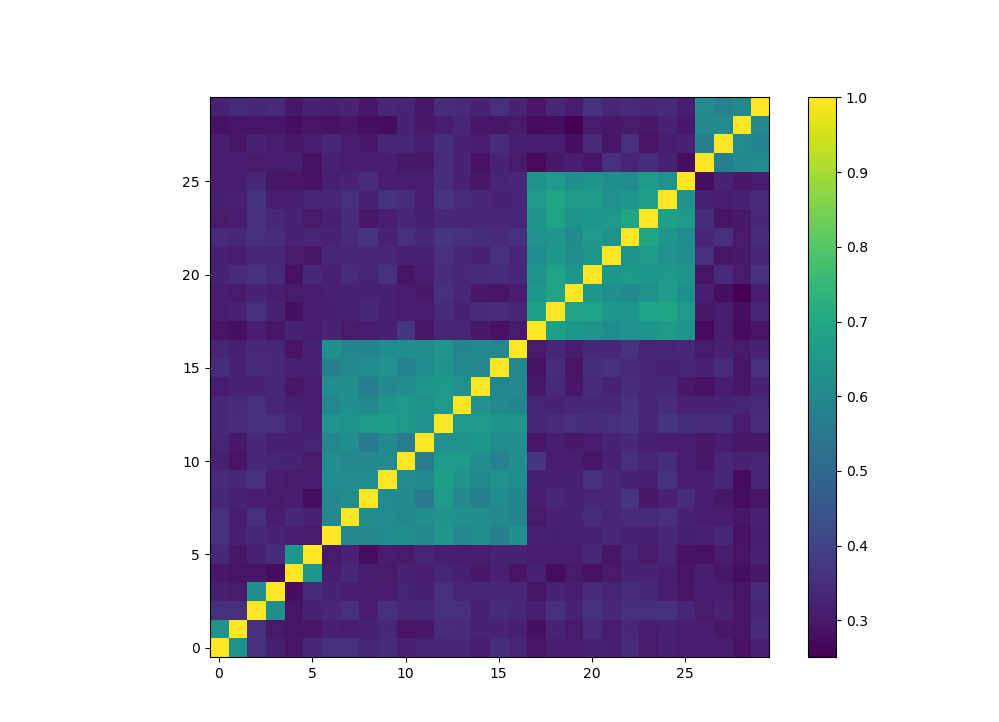
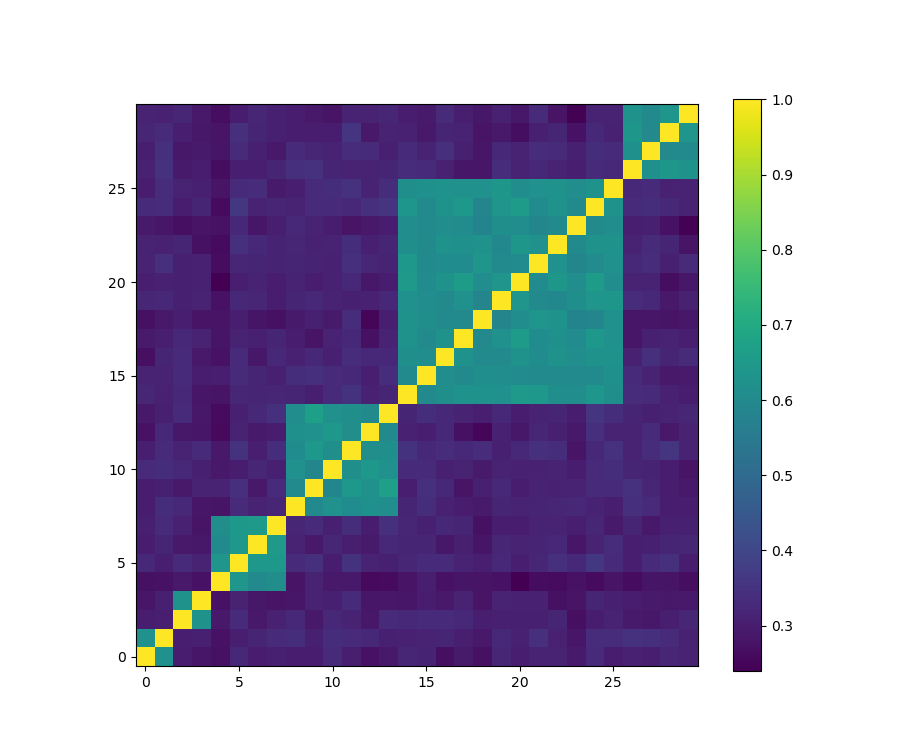
new cluster-imgs

diff --git a/optimal_clustering.py b/optimal_clustering.py
@@ -197,10 +197,11 @@ if __name__ == '__main__':
     matplotlib.pyplot.show()
 
     #draw prediction based on ONC
-    matplotlib.pyplot.matshow(denoised_corr1)#corr1) 
-    matplotlib.pyplot.gca().xaxis.tick_bottom()
-    matplotlib.pyplot.gca().invert_yaxis()
-    matplotlib.pyplot.colorbar()
-    matplotlib.pyplot.show()
+    corrNew, clstrsNew, silhNew = clusterKMeansTop(corr0)
+matplotlib.pyplot.matshow(corrNew) 
+matplotlib.pyplot.gca().xaxis.tick_bottom()
+matplotlib.pyplot.gca().invert_yaxis()
+matplotlib.pyplot.colorbar()
+matplotlib.pyplot.show()
         
     
